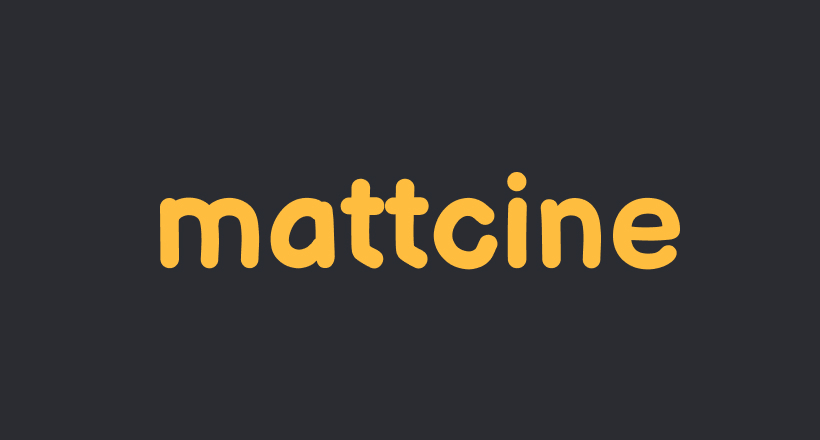
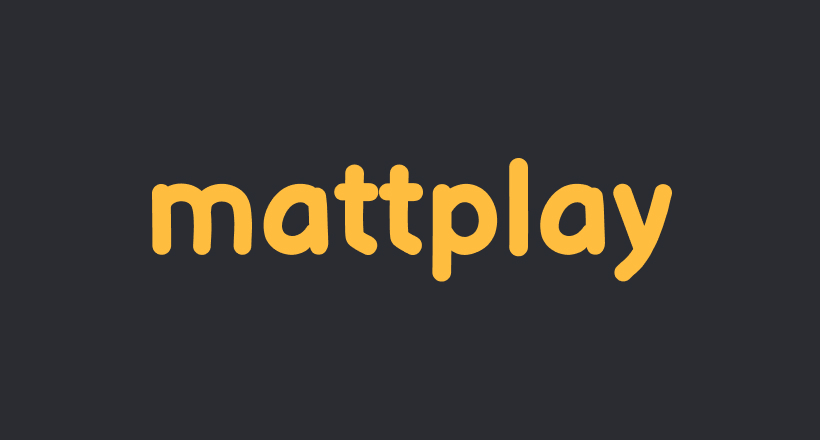
adicionando projetos

Changed region(s): [[0.1829, 0.3545, 0.8537, 0.65]]

diff --git a/css/style.css b/css/style.css
@@ -1,1 +1,383 @@
-:root{--fundo-primario:#fff;--texto:#000;--subtitulo:#4a4a4a;--link-background:#F7DFFD}@media(prefers-color-scheme:dark){:root{--fundo-primario:#1A0035;--texto:#fff;--subtitulo:#D9D9D9;--link-background:#2E015C}}body{font-family:"Fira Sans",Arial,sans-serif;margin:0;background-color:var(--fundo-primario)}h1,h2,h3,p{margin:0}ul{margin:0;padding:0;list-style:none}img{max-width:100%;display:block}.header{max-width:1200px;margin:0 auto;padding:40px 20px;display:flex;justify-content:space-between;align-items:center}.header-menu{display:flex;gap:10px;flex-wrap:wrap;justify-content:center}.header-menu a{font-size:1.125rem;line-height:1.3;padding:10px 20px;text-decoration:none;color:var(--texto);display:block}@media (max-width:800px){.header{flex-direction:column;gap:40px;padding:20px}.header a{background-color:var(--link-background);border-radius:4px}}.introducao{max-width:1200px;padding:40px 20px;margin:0 auto;display:grid;grid-template-columns:2fr 1fr;grid-template-rows:60vh;gap:100px;align-items:center;margin-bottom:100px;color:var(--texto)}.introducao h5{font-size:2rem;margin-bottom:10px}.introducao h1{font-size:4.75rem;line-height:1.125;margin-bottom:60px}.introducao p{font-size:1.5rem;color:var(--subtitulo)}@media (max-width:1200px){.introducao{gap:60px}.introducao h1{font-size:3.7rem}.introducao p{font-size:1.3rem}}@media (max-width:1000px){.introducao{grid-template-columns:1fr 1fr;gap:40px}.introducao h1{font-size:2.5rem}.introducao h5{font-size:1.5rem}.introducao p{font-size:1rem}}@media (max-width:800px){.introducao{display:flex;min-height:50vh;align-items:center;justify-content:center;text-align:center}.introducao img{display:none}}.sobre{background:linear-gradient(to bottom,#a948d7,#500f93)}.sobre-container{max-width:1400px;padding:40px 20px;margin:0 auto;display:grid;grid-template-columns:1fr 1fr;grid-template-rows:50vh;gap:100px;align-items:center;margin-bottom:100px;color:var(--texto)}.sobre-description h1{font-size:3rem;color:#fff;margin-bottom:20px}.sobre-description p{font-size:1.2rem;line-height:1.5;color:#d9d9d9;max-width:80%}.destaque{font-weight:700;color:#fff}@media (max-width:1000px){.sobre-container{grid-template-columns:1fr 1fr;grid-template-rows:30vh}.sobre-container h1{font-size:1.7rem}.sobre-container p{font-size:.8rem;max-width:95%}}@media (max-width:800px){.sobre-container{display:flex;flex-direction:column-reverse;align-items:center;justify-content:center;text-align:center;padding:100px 20px;height:60vh;gap:20px}.sobre-container p{font-size:1rem}.sobre-container img{max-width:100%}}.habilidade{max-width:1200px;min-height:500px;padding:40px 20px;margin:60px auto;display:grid;grid-template-columns:1fr 2fr;align-items:center;gap:100px}.habilidade div{flex-wrap:wrap;justify-content:flex-end;display:flex;gap:10px}.subtitulo{font-size:8rem;word-break:break-all;line-height:1;text-transform:uppercase;max-width:4ch;background:linear-gradient(90deg,#9355d3,#52168f);-webkit-background-clip:text;-webkit-text-fill-color:transparent}@media (max-width:1000px){.subtitulo{font-size:6rem}.habilidade img{max-width:100px}}@media (max-width:800px){.habilidade{display:block;padding:20px auto;min-height:300px}.subtitulo{font-size:2.5rem;max-width:none;text-align:center;margin:40px auto}.habilidade div{flex-wrap:wrap;justify-content:center;display:flex;gap:10px}}.projeto{max-width:1200px;padding:40px 20px;margin:0 auto;gap:100px;align-items:center;margin-bottom:100px}.projeto-titulo{text-align:center;margin-bottom:60px}.projeto-titulo h1{font-size:2.5rem;margin-bottom:10px;color:var(--texto)}.projeto-titulo p{font-size:1.2rem;color:var(--subtitulo)}.card-box{display:grid;grid-template-columns:repeat(auto-fit,minmax(300px,1fr));gap:20px}.card{width:100%;height:220px;position:relative;overflow:hidden;transition:.4s}.card-img{width:100%;height:100%;object-fit:cover}.card-body{width:100%;height:100%;top:0;right:-100%;position:absolute;background-color:#2727277a;backdrop-filter:blur(20px);color:#fff;padding:20px;box-sizing:border-box;display:flex;flex-direction:column;justify-content:center;transition:.4s}.card:hover .card-body{right:0;border:5px solid;border-image:linear-gradient(to right,#ca6eeb,#651db0);border-image-slice:1}.card-title{font-size:1.5rem}.card-info{font-family:Arial,Helvetica,sans-serif;font-size:14px;line-height:1.4;margin:20px 0;color:#d9d9d9}.card-btn{color:#2e015c;background:#fff;padding:10px 20px;border-radius:5px;width:160px;text-transform:capitalize;border:none;outline:0;font-weight:800;cursor:pointer}@media (max-width:1000px){.projeto-titulo h1{font-size:2rem}.projeto-titulo p{font-size:1rem}}.footer{background:#2e015c;min-height:600px;display:flex;flex-direction:column;align-items:center;justify-content:center;text-align:center;color:#fff}.footer h1{font-size:3rem;margin-bottom:60px}.footer-info{display:flex;justify-content:space-around;align-items:center}.contato-info{margin:0 40px;display:flex;flex-direction:column;align-items:center}.contato-info h2{font-size:1.2rem;line-height:2}.contato-info p{font-size:.8rem;color:#f4caff}@media (max-width:800px){.footer{padding:20px}.footer h1{font-size:2rem}.footer-info{flex-direction:column;max-width:max-content}.contato-info{margin-bottom:40px}}
+:root {
+  --fundo-primario: #fff;
+  --texto: #000;
+  --subtitulo: #4a4a4a;
+  --link-background: #f7dffd;
+}
+@media (prefers-color-scheme: dark) {
+  :root {
+    --fundo-primario: #1a0035;
+    --texto: #fff;
+    --subtitulo: #d9d9d9;
+    --link-background: #2e015c;
+  }
+}
+body {
+  font-family: "Fira Sans", Arial, sans-serif;
+  margin: 0;
+  background-color: var(--fundo-primario);
+}
+h1,
+h2,
+h3,
+p {
+  margin: 0;
+}
+ul {
+  margin: 0;
+  padding: 0;
+  list-style: none;
+}
+img {
+  max-width: 100%;
+  display: block;
+}
+.header {
+  max-width: 1200px;
+  margin: 0 auto;
+  padding: 40px 20px;
+  display: flex;
+  justify-content: space-between;
+  align-items: center;
+}
+.header-menu {
+  display: flex;
+  gap: 10px;
+  flex-wrap: wrap;
+  justify-content: center;
+}
+.header-menu a {
+  font-size: 1.125rem;
+  line-height: 1.3;
+  padding: 10px 20px;
+  text-decoration: none;
+  color: var(--texto);
+  display: block;
+}
+@media (max-width: 800px) {
+  .header {
+    flex-direction: column;
+    gap: 40px;
+    padding: 20px;
+  }
+  .header a {
+    background-color: var(--link-background);
+    border-radius: 4px;
+  }
+}
+.introducao {
+  max-width: 1200px;
+  padding: 40px 20px;
+  margin: 0 auto;
+  display: grid;
+  grid-template-columns: 2fr 1fr;
+  grid-template-rows: 60vh;
+  gap: 100px;
+  align-items: center;
+  margin-bottom: 100px;
+  color: var(--texto);
+}
+.introducao h5 {
+  font-size: 2rem;
+  margin-bottom: 10px;
+}
+.introducao h1 {
+  font-size: 4.75rem;
+  line-height: 1.125;
+  margin-bottom: 60px;
+}
+.introducao p {
+  font-size: 1.5rem;
+  color: var(--subtitulo);
+}
+@media (max-width: 1200px) {
+  .introducao {
+    gap: 60px;
+  }
+  .introducao h1 {
+    font-size: 3.7rem;
+  }
+  .introducao p {
+    font-size: 1.3rem;
+  }
+}
+@media (max-width: 1000px) {
+  .introducao {
+    grid-template-columns: 1fr 1fr;
+    gap: 40px;
+  }
+  .introducao h1 {
+    font-size: 2.5rem;
+  }
+  .introducao h5 {
+    font-size: 1.5rem;
+  }
+  .introducao p {
+    font-size: 1rem;
+  }
+}
+@media (max-width: 800px) {
+  .introducao {
+    display: flex;
+    min-height: 50vh;
+    align-items: center;
+    justify-content: center;
+    text-align: center;
+  }
+  .introducao img {
+    display: none;
+  }
+}
+.sobre {
+  background: linear-gradient(to bottom, #a948d7, #500f93);
+}
+.sobre-container {
+  max-width: 1400px;
+  padding: 40px 20px;
+  margin: 0 auto;
+  display: grid;
+  grid-template-columns: 1fr 1fr;
+  grid-template-rows: 50vh;
+  gap: 100px;
+  align-items: center;
+  margin-bottom: 100px;
+  color: var(--texto);
+}
+.sobre-description h1 {
+  font-size: 3rem;
+  color: #fff;
+  margin-bottom: 20px;
+}
+.sobre-description p {
+  font-size: 1.2rem;
+  line-height: 1.5;
+  color: #d9d9d9;
+  max-width: 80%;
+}
+.destaque {
+  font-weight: 700;
+  color: #fff;
+}
+@media (max-width: 1000px) {
+  .sobre-container {
+    grid-template-columns: 1fr 1fr;
+    grid-template-rows: 30vh;
+  }
+  .sobre-container h1 {
+    font-size: 1.7rem;
+  }
+  .sobre-container p {
+    font-size: 0.8rem;
+    max-width: 95%;
+  }
+}
+@media (max-width: 800px) {
+  .sobre-container {
+    display: flex;
+    flex-direction: column-reverse;
+    align-items: center;
+    justify-content: center;
+    text-align: center;
+    padding: 100px 20px;
+    height: 60vh;
+    gap: 20px;
+  }
+  .sobre-container p {
+    font-size: 1rem;
+  }
+  .sobre-container img {
+    max-width: 100%;
+  }
+}
+.habilidade {
+  max-width: 1200px;
+  min-height: 500px;
+  padding: 40px 20px;
+  margin: 60px auto;
+  display: grid;
+  grid-template-columns: 1fr 2fr;
+  align-items: center;
+  gap: 100px;
+}
+.habilidade div {
+  flex-wrap: wrap;
+  justify-content: flex-end;
+  display: flex;
+  gap: 10px;
+}
+.subtitulo {
+  font-size: 8rem;
+  word-break: break-all;
+  line-height: 1;
+  text-transform: uppercase;
+  max-width: 4ch;
+  background: linear-gradient(90deg, #9355d3, #52168f);
+  -webkit-background-clip: text;
+  -webkit-text-fill-color: transparent;
+}
+@media (max-width: 1000px) {
+  .subtitulo {
+    font-size: 6rem;
+  }
+  .habilidade img {
+    max-width: 100px;
+  }
+}
+@media (max-width: 800px) {
+  .habilidade {
+    display: block;
+    padding: 20px auto;
+    min-height: 300px;
+  }
+  .subtitulo {
+    font-size: 2.5rem;
+    max-width: none;
+    text-align: center;
+    margin: 40px auto;
+  }
+  .habilidade div {
+    flex-wrap: wrap;
+    justify-content: center;
+    display: flex;
+    gap: 10px;
+  }
+}
+.projeto {
+  max-width: 1200px;
+  padding: 40px 20px;
+  margin: 0 auto;
+  gap: 100px;
+  align-items: center;
+  margin-bottom: 100px;
+}
+.projeto-titulo {
+  text-align: center;
+  margin-bottom: 60px;
+}
+.projeto-titulo h1 {
+  font-size: 2.5rem;
+  margin-bottom: 10px;
+  color: var(--texto);
+}
+.projeto-titulo p {
+  font-size: 1.2rem;
+  color: var(--subtitulo);
+}
+.card-box {
+  display: grid;
+  grid-template-columns: repeat(auto-fit, minmax(300px, 1fr));
+  gap: 20px;
+}
+.card {
+  width: 100%;
+  height: 220px;
+  position: relative;
+  overflow: hidden;
+  transition: 0.4s;
+}
+.card-img {
+  width: 100%;
+  height: 100%;
+  object-fit: cover;
+}
+.card-body {
+  width: 100%;
+  height: 100%;
+  top: 0;
+  right: -100%;
+  position: absolute;
+  background-color: #2727277a;
+  backdrop-filter: blur(20px);
+  color: #fff;
+  padding: 20px;
+  box-sizing: border-box;
+  display: flex;
+  flex-direction: column;
+  justify-content: center;
+  transition: 0.4s;
+}
+.card:hover .card-body {
+  right: 0;
+  border: 5px solid;
+  border-image: linear-gradient(to right, #ca6eeb, #651db0);
+  border-image-slice: 1;
+}
+.card-title {
+  font-size: 1.5rem;
+}
+.card-info {
+  font-family: Arial, Helvetica, sans-serif;
+  font-size: 14px;
+  line-height: 1.4;
+  margin: 20px 0;
+  color: #d9d9d9;
+}
+.card-btn, .card-btn a {
+  color: #2e015c;
+  background: #fff;
+  padding: 10px 20px;
+  border-radius: 5px;
+  width: 160px;
+  text-transform: capitalize;
+  border: none;
+  outline: 0;
+  font-weight: 800;
+  cursor: pointer;
+  text-decoration: none;
+}
+@media (max-width: 1000px) {
+  .projeto-titulo h1 {
+    font-size: 2rem;
+  }
+  .projeto-titulo p {
+    font-size: 1rem;
+  }
+}
+.footer {
+  background: #2e015c;
+  min-height: 600px;
+  display: flex;
+  flex-direction: column;
+  align-items: center;
+  justify-content: center;
+  text-align: center;
+  color: #fff;
+}
+.footer h1 {
+  font-size: 3rem;
+  margin-bottom: 60px;
+}
+.footer-info {
+  display: flex;
+  justify-content: space-around;
+  align-items: center;
+}
+.contato-info {
+  margin: 0 40px;
+  display: flex;
+  flex-direction: column;
+  align-items: center;
+}
+.contato-info h2 {
+  font-size: 1.2rem;
+  line-height: 2;
+}
+.contato-info p {
+  font-size: 0.8rem;
+  color: #f4caff;
+}
+@media (max-width: 800px) {
+  .footer {
+    padding: 20px;
+  }
+  .footer h1 {
+    font-size: 2rem;
+  }
+  .footer-info {
+    flex-direction: column;
+    max-width: max-content;
+  }
+  .contato-info {
+    margin-bottom: 40px;
+  }
+}

diff --git a/index.html b/index.html
@@ -78,7 +78,7 @@
           <h1 class="card-title">Mattcine</h1>
           <p class="card-info">O Mattcine é um site focado em análises de filmes, proporcionando aos usuários uma forma confiável de explorar e analisar a qualidade cinematográfica.</p>
 
-          <button class="card-btn">Não disponivel</button>
+          <button class="card-btn"><a href="https://mattplay.vercel.app/">Veja mais</a></button>
         </div>
       </div>
 
